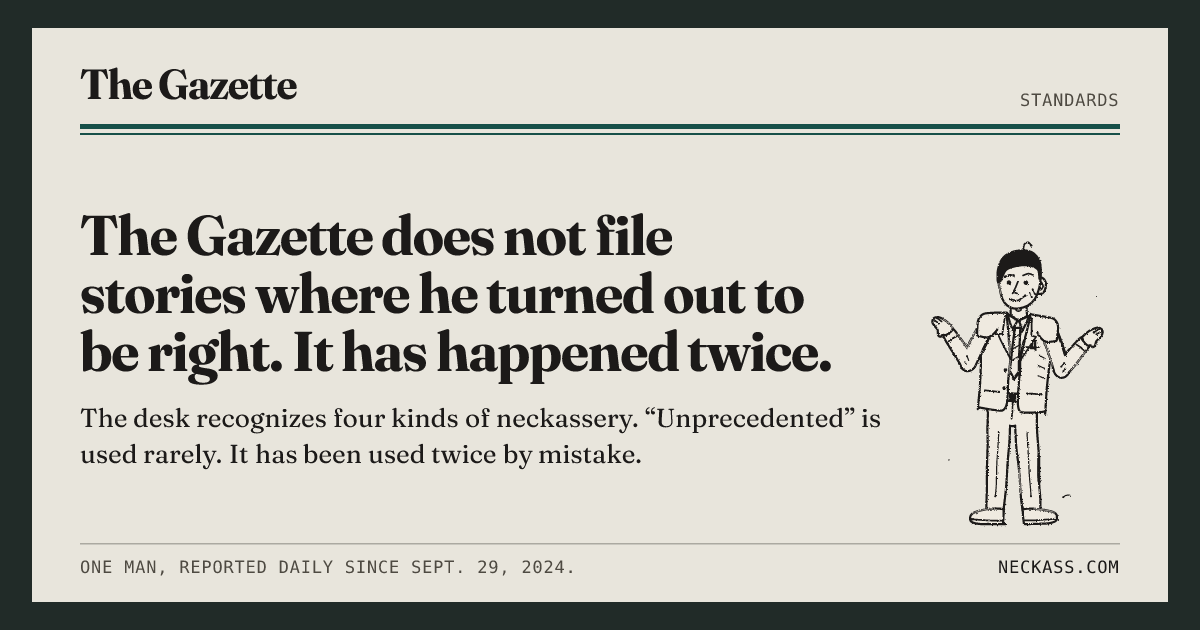
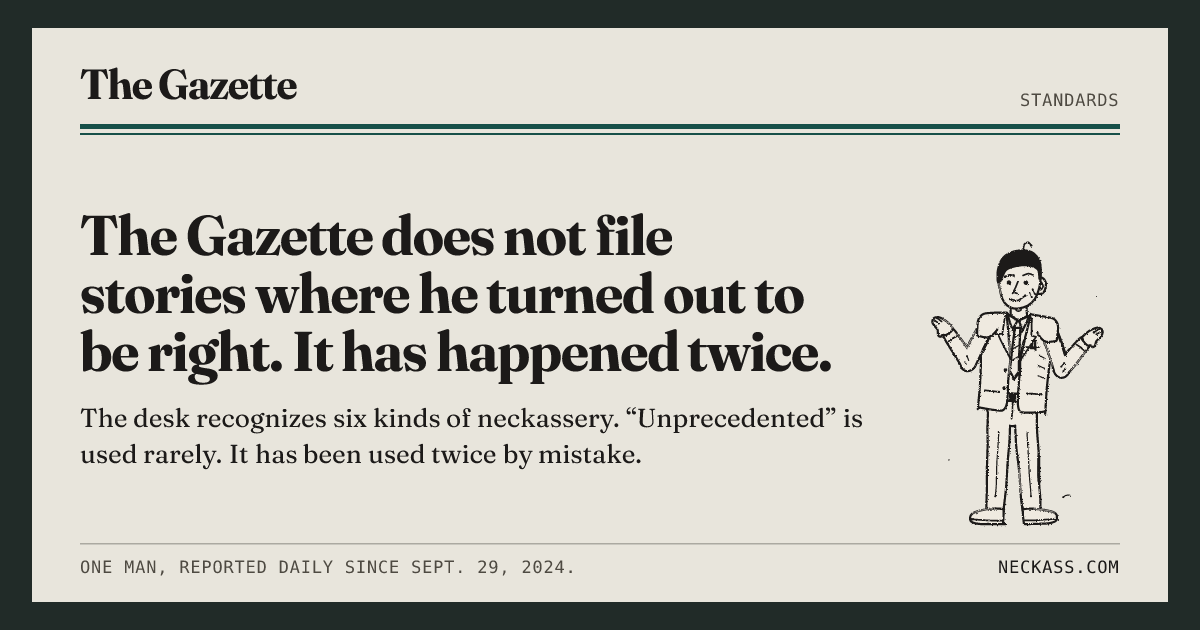
docs: the standards, the entry and the changelog catch up
The Standards recognize credentialed and jurisdictional neckassery, and
say that a citation can be checked and that he is not called a hypocrite.
The entry gains biographical jurisdiction, its antecedents and its
future, and cites Kim, Gneezy and Imas (PNAS Nexus, 2026). The Standards
card is redrawn for the new count.

Changed region(s): [[0.2775, 0.6333, 0.74, 0.6937]]

diff --git a/about.html b/about.html
@@ -99,6 +99,10 @@
                 <p>Collier considered the fourth feature diagnostic. Foolishness stops when it is pointed out. Neckassery continues, in the form of an explanation, and the explanation is usually longer than the act. In its popular form her test is a single question: told what they did, does the person do it again while describing it?</p>
                 <p>The features also separate neckassery from its neighbors. It is not rudeness, which intends something, or incompetence, which does not claim otherwise. A man who is late is late. A man who is late and reports that he is “already on the train” from the shower is engaged in neckassery, and so, on arrival, is his remark that it was the trains (<a href="/?issue=2024-11-08">No. 41</a>).</p>
 
+                <p>A later literature separates out one form, <em>biographical jurisdiction</em>, in which the subject went through a difficulty, or found a way around it, and now rules on it for other people. The Gazette gives the qualification the way a wire story gives any source’s, in a clause after his name. One reviewer’s summary is widely quoted: he does not merely want credit for overcoming the obstacle; he wants the obstacle to retain its accreditation. The nearest experimental finding is the pulling-up-the-ladder effect, in which people whose hardship was tied to an achievement are less willing to spare others the same hardship, in order to protect the value of the achievement (Kim, Gneezy, and Imas, “<a href="https://doi.org/10.1093/pnasnexus/pgag128">Pulling up the ladder</a>,” <em>PNAS Nexus</em>, 2026). A 2038 study set out to establish whether the subject’s rulings bind anyone. It found that the new hire was still sitting where the copier had been.</p>
+                <p>The form is older than the word. Historians have proposed a fifteenth-century copyist who complained of the printing press that nobody knew what a book weighed anymore; a veteran of the Oregon Trail who held that the railroad had ended the pioneering spirit, a person having formerly been expected to lose at least one relative on the way; and a Victorian surgeon who found patients under anesthesia entitled. All three attributions are disputed. The word being unavailable, their neighbors are recorded only as having moved.</p>
+                <p>The corpus has one complication. In No. 800 the paper reports that the subject was right about a pair of prescriptions, and that it had printed his warning as a joke. Critics observe that the inference usually held against him, that he endured a thing and so it was necessary, has a mirror in the paper’s own practice, that a thing was a burden and so it was not. The paper has not commented, beyond saying that it now looks things up.</p>
+
                 <h2 class="section-label">Derived forms</h2>
                 <p><em>Neckassery</em> spread to discussions of bureaucracy, sports, transportation, and local government (<em>routine neckassery</em>, <em>administrative neckassery</em>, <em>unprecedented neckassery</em>). Other derivatives include:</p>
                 <ul class="about-list">
@@ -117,6 +121,7 @@
 
                 <h2 class="section-label">Legacy</h2>
                 <p>By 2040, <em>neckass</em> is regarded as an established item of informal American English rather than a current viral expression. Its continued use has been attributed less to its origins than to the fact that the word occupies a lexical niche not fully covered by older insults. A person may be foolish without being a neckass, and a neckass need not be especially foolish, only certain.</p>
+                <p>The form has outlasted the problems it was attached to. When lab-grown kidneys were approved in 2034, an association of people who had waited for transplants asked for a mandatory waiting period, “to appreciate the gift.” Language schools petitioned against the translation implant on the ground that nobody wanted to misunderstand each other anymore. In 2039 a group of older campaigners told the first people born after aging was cured that living forever used to mean something. The Gazette’s subject signed all three, the first with both kidneys. A 2040 profile concluded that he had spent his life learning to overcome obstacles and that, when they disappeared, he became one.</p>
                 <p>The Gazette has never printed the word <em>neckassery</em> in an issue; it appears only in the paper’s <a href="/prompts">standards</a>. Its editorials record what the subject did that day and nothing more. At the founding, he came to the office to ask whether the paper had anything on him and stayed forty minutes supplying it (<a href="/?issue=2024-09-29">No. 1</a>). At the first anniversary, he asked whether there was “an anniversary thing” (<a href="/?issue=2025-09-29">No. 366</a>). At the second, he asked whether the paper was still going, while holding it (<a href="/?issue=2026-09-29">No. 731</a>). Collier treated the three as one instance, observed over two years.</p>
 
                 <h2 class="section-label">See also</h2>

diff --git a/prompts.html b/prompts.html
@@ -13,12 +13,12 @@
     <link rel="apple-touch-icon" href="/apple-touch-icon.png">
     <link rel="manifest" href="/site.webmanifest">
     <link rel="alternate" type="application/rss+xml" title="The Gazette" href="/feed.xml">
-    <meta name="description" content="The rules for what goes in the Gazette and how it is written, and the four kinds of neckassery it covers.">
+    <meta name="description" content="The rules for what goes in the Gazette and how it is written, and the six kinds of neckassery it covers.">
     <meta name="robots" content="index, follow, max-image-preview:large">
     <link rel="canonical" href="https://neckass.com/prompts">
 
     <meta property="og:title" content="Standards | The Gazette">
-    <meta property="og:description" content="The rules for what goes in the Gazette and how it is written, and the four kinds of neckassery it covers.">
+    <meta property="og:description" content="The rules for what goes in the Gazette and how it is written, and the six kinds of neckassery it covers.">
     <meta property="og:image" content="https://neckass.com/og-prompts.png">
     <meta property="og:image:secure_url" content="https://neckass.com/og-prompts.png">
     <meta property="og:image:alt" content="The Gazette, Standards: the Gazette does not file stories where he turned out to be right. It has happened twice.">
@@ -32,7 +32,7 @@
 
     <meta name="twitter:card" content="summary_large_image">
     <meta name="twitter:title" content="Standards | The Gazette">
-    <meta name="twitter:description" content="The rules for what goes in the Gazette and how it is written, and the four kinds of neckassery it covers.">
+    <meta name="twitter:description" content="The rules for what goes in the Gazette and how it is written, and the six kinds of neckassery it covers.">
     <meta name="twitter:image" content="https://neckass.com/og-prompts.png">
     <meta name="twitter:image:alt" content="The Gazette, Standards: the Gazette does not file stories where he turned out to be right. It has happened twice.">
     <meta name="twitter:url" content="https://neckass.com/prompts">
@@ -82,6 +82,9 @@
                     <li>He is asked for comment on every item. He has never declined, and the comment is often the next item.</li>
                     <li>We do not say he was late. We say he arrived at 7:40 having told everyone seven.</li>
                     <li>We do not tell the reader how to take an item. We print what happened and stop.</li>
+                    <li>We do not call him a hypocrite. A hypocrite would know.</li>
+                    <li>When an item cites a study, an agency or a law, the citation is real and can be checked. What he did about it is ours.</li>
+                    <li>A thing is not needless because it is a burden, or because he is the one defending it. We look it up.</li>
                     <li>When he explains himself, we print the explanation word for word. That is usually enough.</li>
                     <li>A second sentence is allowed if it adds a fact — a time, a number, who was there. “The matter has been noted” is not a fact.</li>
                     <li>Exclamation marks are reserved for the classifieds, where they have never been used.</li>
@@ -98,6 +101,8 @@
                 <p><strong>Routine neckassery.</strong> Small everyday failures: the alarm, the leftovers, the group chat. Most of the paper. He says he will do a thing and the same sentence says he did not.</p>
                 <p><strong>Administrative neckassery.</strong> When a company, a committee, or his own out-of-office reply takes a formal position on him. Also covers anyone who studies the word, agrees he is one, and still cannot say what it means.</p>
                 <p><strong>Neckass-adjacent.</strong> Close, but not confirmed. Also where the printer, the weather, and Tuesdays get filed when he calls them neckass, which he does.</p>
+                <p><strong>Credentialed neckassery.</strong> The usual failures, with the vocabulary. He has a term for it, an app that tracks it, or a certificate saying he has stopped. He is not pretending, and the desk does not say he is.</p>
+                <p><strong>Jurisdictional neckassery.</strong> He went through it, or found a way around it, and now rules on it for other people. Give the qualification in a clause after his name, as for any source. Do not add to it.</p>
                 <p><strong>Unprecedented neckassery.</strong> Worse than anything on file. Used rarely. Used twice by mistake.</p>
 
                 <h2 class="section-label">Matters the Gazette will not file</h2>

diff --git a/scripts/generate-og.ts b/scripts/generate-og.ts
@@ -83,7 +83,7 @@ export const OG_CARDS: OgCard[] = [
         folio: 'STANDARDS',
         headline:
             'The Gazette does not file stories where he turned out to be right. It has happened twice.',
-        deck: 'The desk recognizes four kinds of neckassery. “Unprecedented” is used rarely. It has been used twice by mistake.',
+        deck: 'The desk recognizes six kinds of neckassery. “Unprecedented” is used rarely. It has been used twice by mistake.',
         pose: 'defense',
     },
 ];

diff --git a/CHANGELOG.md b/CHANGELOG.md
@@ -6,6 +6,10 @@ The format follows [Keep a Changelog](https://keepachangelog.com/en/1.1.0/).
 
 ## [Unreleased]
 ### Changed
+- The paper gets a character, from No. 770. Neckass does not want credit for getting past an obstacle; he wants the obstacle to keep its accreditation. 36 new leads, 158 briefs, 23 corrections, 21 ads, 14 letters and 11 forecasts: he uses a modern institution's own language and tools against its purpose and reports progress (the $400 ring that told him he feels bad on four hours' sleep; “protecting his peace” about a borrowed vacuum; ChatGPT regenerated until it agreed); he went through something, or found a way around it, and now rules on it for other people, the qualification in a clause after his name (the neighborhood is full, and he arrived in 2021; nobody rides the bus, a finding reached behind the bus); he learns it was optional and behaves as though defrauded (the night certificate, which an old form only listed as “preferred”). The worst of the older items are retired, 17 leads and 36 briefs among them, so the pools from No. 770 deal 85 leads, 271 briefs, 76 corrections, 78 ads, 50 letters and 51 forecasts, and the sizes given in the entry on the pools below are the first plan for that step. Items that had never run took new copy in place, and the new copy is numbered so the serials run in order: the appeals become a podcast, a $499 course, opposition to automatic approvals and an appeal of an approval; the long form becomes a business and a coalition of one; the seat by the copier that was removed in 2022 becomes HR's Foundations Track. Two new standing counts run monthly: the knee's denials, reported as a personal best, and the new hire's days where the copier was.
+- He is right once, and the paper has to say so. No. 800 (Dec. 7, 2026) is a written landmark: his warning about two drugs and automatic approvals ran as a brief on Thanksgiving, under a bag of rolls and above a chicken (No. 789, held by a unit test), and the editorial reports that the paper has never looked up anything he was defending. He then proposes three denials for every patient, and the paper looks that one up too. What he knows is real elsewhere as well: the binder works, and a colleague, 26, believes him about night school.
+- Ten briefs open on a real, dated, sourced fact (KFF on Medicare Advantage appeals, the Senate's 2024 report, the CMS prior authorization rule, the July 2026 subway elevator settlement, Ohio's return-to-office order, the GAO on the FAFSA, remote notarization, the pulling-up-the-ladder study), to which he then reacts. Sources are listed in `data/headlines.js`, and the Standards say that a citation can be checked and that what he did about it is the paper's. New York and Ohio do not place the paper: he has never been to either.
+- The Standards recognize six kinds of neckassery, with credentialed and jurisdictional, and add that he is not called a hypocrite, a hypocrite being someone who would know. The entry gains biographical jurisdiction, its antecedents and its future, and cites Kim, Gneezy and Imas (*PNAS Nexus*, 2026).
 - The paper goes to press at midnight US Eastern, everywhere. The edge took today from UTC and the browser from the reader's own day, so every evening in the US a shared link's card and tags named tomorrow's issue while the reader landed on today's. `pressDate()` in `modules/issue.js` decides today for the page, the back issues, the tags, the card and the feed; the edge imports the module directly, and the UTC adapter (`functions/lib/issue.mjs`) is gone. The zone is a clock and not a place: the paper names none.
 - The edge prints the whole issue. `modules/render.js` turns a composed issue into patches (an element, and the text, markup or attributes it gets), and the edge applies them to the page as it serves it, so a reader without JavaScript and a crawler get the day's whole paper: every section, the file cut's pose and props, the weather cut, the earlier issues. The browser applies the same patches only when the page does not already carry the issue (a static host), so it no longer swaps the page after load, and the tab keeps the headline in its title. The standing issue in `index.html` is printed from No. 759 by `bun run standing` with the same renderer, and a test fails if it was not reprinted, so it cannot drift from the pools again.
 - Every pool item has a number, and is dealt by it. The pools are objects keyed 1 to N rather than arrays, so an item's place in the file no longer matters, and a step in `data/growth.js` can retire an item from an issue on, where before an unfunny item could only be rewritten in place, back issues included. Every issue is dealt what it was: the fingerprint through No. 769 holds, and No. 770 to No. 1200 are identical to the array dealer's.
@@ -13,7 +17,7 @@ The format follows [Keep a Changelog](https://keepachangelog.com/en/1.1.0/).
 - The arithmetic is tested without a browser. Eleven tests that never opened a page run under `bun test` (`bun run test:unit`, under a second): the corrections chain, the calendar, the dealing and the growth of the pools, the drawing's three copies, the sitemap, the pools' curly quotes and the standing issue. Playwright keeps the pages and the edge, and picks up only `*.spec.mjs`.
 - The pages are served with a Content-Security-Policy (site-only scripts, styles, fonts and images; no plugins, forms or framing), and the fonts with a year's immutable cache. A smoke test loads every page through the edge and fails if the browser blocks anything.
 - Less paper, each day. From No. 770 the front page prints five briefs, three corrections and three ads, down from seven, four and five: the item each section carries from the lead (the follow-up, the retraction, the lead's own ad) and fewer dealt ones. A step in `data/growth.js` may now set `perIssue`, the places a day a section deals, and the page's sizes follow from it, so the issues through No. 769 print what they printed. With fewer places a day the pools last longer: a brief now comes back in about 40 days instead of 26, a correction in 31 instead of 17, and an ad in 37 instead of 15. The colophon drops "Letters may be edited." and the clipping link to the issue's card, which a shared link already previews; the staff line stays. The reference entry drops the paragraph listing what linguists have cited the word as an example of, which restated the lede, and two derived forms that were only definitions (*neckass-coded*, *neckass-adjacent*; the standards keep the second as a variety).
-- The pools can grow without re-dealing the back issues, and they have. A pool now grows only at its end, in steps (`data/growth.js`): from issue `from` on, it is dealt from its first `size` items, in rounds that start on that issue and are seeded by it, so every issue before a step runs what it always ran. A step's first round keeps the leads of the days just before it out of its opening places, and its first split of a section puts the last eleven days' items at the end, so nothing comes back inside ten days across a step either. Until now a pool could only be edited in place: 52 leads had carried 759 issues, so each had run about fifteen times, and a daily reader saw the same lead every 52 days and the same correction every 17. From No. 770 (Saturday, Nov. 7, 2026) there are 70 leads, 155 briefs, 62 corrections, 72 classifieds, 39 letters and 45 forecasts. The eighteen new leads include the $160 he collected for a colleague's birthday present, which is in his cart waiting to go on sale; a party he texted the host of to ask her to turn the music down; the lunch he labeled and the one he ate; a raise he asked for with thirty copies of the Gazette; a campsite booked for the right weekend of the wrong month; checkers with his niece, who is 7½ and asked that this be printed; and the groceries he carried in in one trip, the eggs in his teeth. A smoke test pins the place in each pool that each issue through No. 769 was dealt, which the new dealer reproduces exactly, and checks that each pool's last step is its length.
+- The pools can grow without re-dealing the back issues, and they have. A pool now grows only at its end, in steps (`data/growth.js`): from issue `from` on, it is dealt from its first `size` items, in rounds that start on that issue and are seeded by it, so every issue before a step runs what it always ran. A step's first round keeps the leads of the days just before it out of its opening places, and its first split of a section puts the last eleven days' items at the end, so nothing comes back inside ten days across a step either. Until now a pool could only be edited in place: 52 leads had carried 759 issues, so each had run about fifteen times, and a daily reader saw the same lead every 52 days and the same correction every 17. From No. 770 (Saturday, Nov. 7, 2026) there are 70 leads, 155 briefs, 62 corrections, 72 classifieds, 39 letters and 45 forecasts. The eighteen new leads include the $160 he collected for a colleague's birthday present, which is in his cart waiting to go on sale; a party he texted the host of to ask her to turn the music down; a raise he asked for with thirty copies of the Gazette; a campsite booked for the right weekend of the wrong month; checkers with his niece, who is 7½ and asked that this be printed; and the groceries he carried in in one trip, the eggs in his teeth. A smoke test pins the place in each pool that each issue through No. 769 was dealt, which the new dealer reproduces exactly, and checks that each pool's last step is its length.
 - A continuity pass over the paper. In thirteen leads the letter or ad beside the lead gave away the fact the next morning's correction reveals (the six screws, the folder called "Later!!", the 2:31 arrival, the raisins, the wrong restaurant, the second membership); each now leaves the correction its news. The paper no longer contradicts itself: he lives at No. 12, not in an apartment; No. 366 ran on a Monday and its editorial no longer ends "It is Friday"; the best man answered the email in four minutes and the groom says so; the doctor who would not discuss a patient no longer writes in about him; the gym he has been to twice is no longer one he has never entered; the phone has been at one percent since breakfast, not three days; the goodbye in the doorway is still going at press time; No. 288 no longer retracts a fact it had not printed; and letters no longer sign themselves "again," which the deal cannot promise. Duplicated jokes are cut to one telling (the 11,000 images, the nine-day leftovers, the smart speaker and the lights, the hallway with a bicycle in it, the minute to really reply), and two leads that were one joke are two: the story retold at the same table is now a fourteen-minute wedding toast about himself, and the restaurant he recommended without visiting is a dentist. The civic notices are out, as the guardrail requires: the council's first and third Tuesday is book club, the holiday trash collection is a holiday he went in to work on, and the poll worker, the pickleball courts' notice and "residents may wish to use the back way" are gone. The weakest items now name an incident (he read the room at a baby shower and proposed a drinking game; the houseplant has outlived the guitar, the sourdough starter and the running). "I am his mother" opens three letters, down from six, and "has" no longer stands in for a finished act. Every edit is in place, so no pool changes length and no back issue re-deals; the issues the entry cites still run what it says they run.
 - The copy is set in curly quotes and apostrophes (“ ” ’) wherever a reader sees it: the pools, the landmark issues, the calendar, the pages, the front page's back-issue notice and the still cards. Straight quotes had shown as typewriter marks in the 80px headline and on the card. Fraunces and the card's two static cuts carry the glyphs. A smoke test walks every pool and the text of every page for a straight one.
 - The social card is drawn once per issue in each data center. The first fetch renders it and stores it in the Workers cache under the issue it resolved to and the deploy (`version_metadata` in `wrangler.jsonc`), so an edit to the copy is drawn at once; every unfurler after that is answered from the cache. In production each fetch had redrawn the card, at about a second each.

diff --git a/AGENTS.md b/AGENTS.md
@@ -37,7 +37,8 @@ complexity. The front page is the product.
 
 ## When changing content
 - A lead needs all eight fields: headline, deck, byline, pose, correction, followUp, classified, letter. The pose is a key of `data/poses.js`: what he is doing in the story, as the file cut can show it. A lead may also name a scene, keys of `data/scenes.js`: what the story happens among, as props the cut can hold or stand in front of. One or two; the box does not take more.
-- Dated items go on the calendar, not in the pools.
+- What to write, and how to tell whether an item belongs: the comment at the top of `data/headlines.js`.
+- Dated items go on the calendar, not in the pools. A rule added now takes a `from`, or it reprints the back issues.
 - Set quotation marks and apostrophes curly (“ ” ’) in anything a reader sees. The smoke suite fails on a straight one.
 - Pool items are keyed by number and dealt by it. Edit an item in place. To add one, give it the next number and add a step to `data/growth.js` at an issue that has not run yet; to drop one, retire its number in a step. Never renumber or delete an item: the back issues ran it, and the entry cites them.
 - Regenerate the still cards after changing the card layout or copy: `bun run og:generate`.
